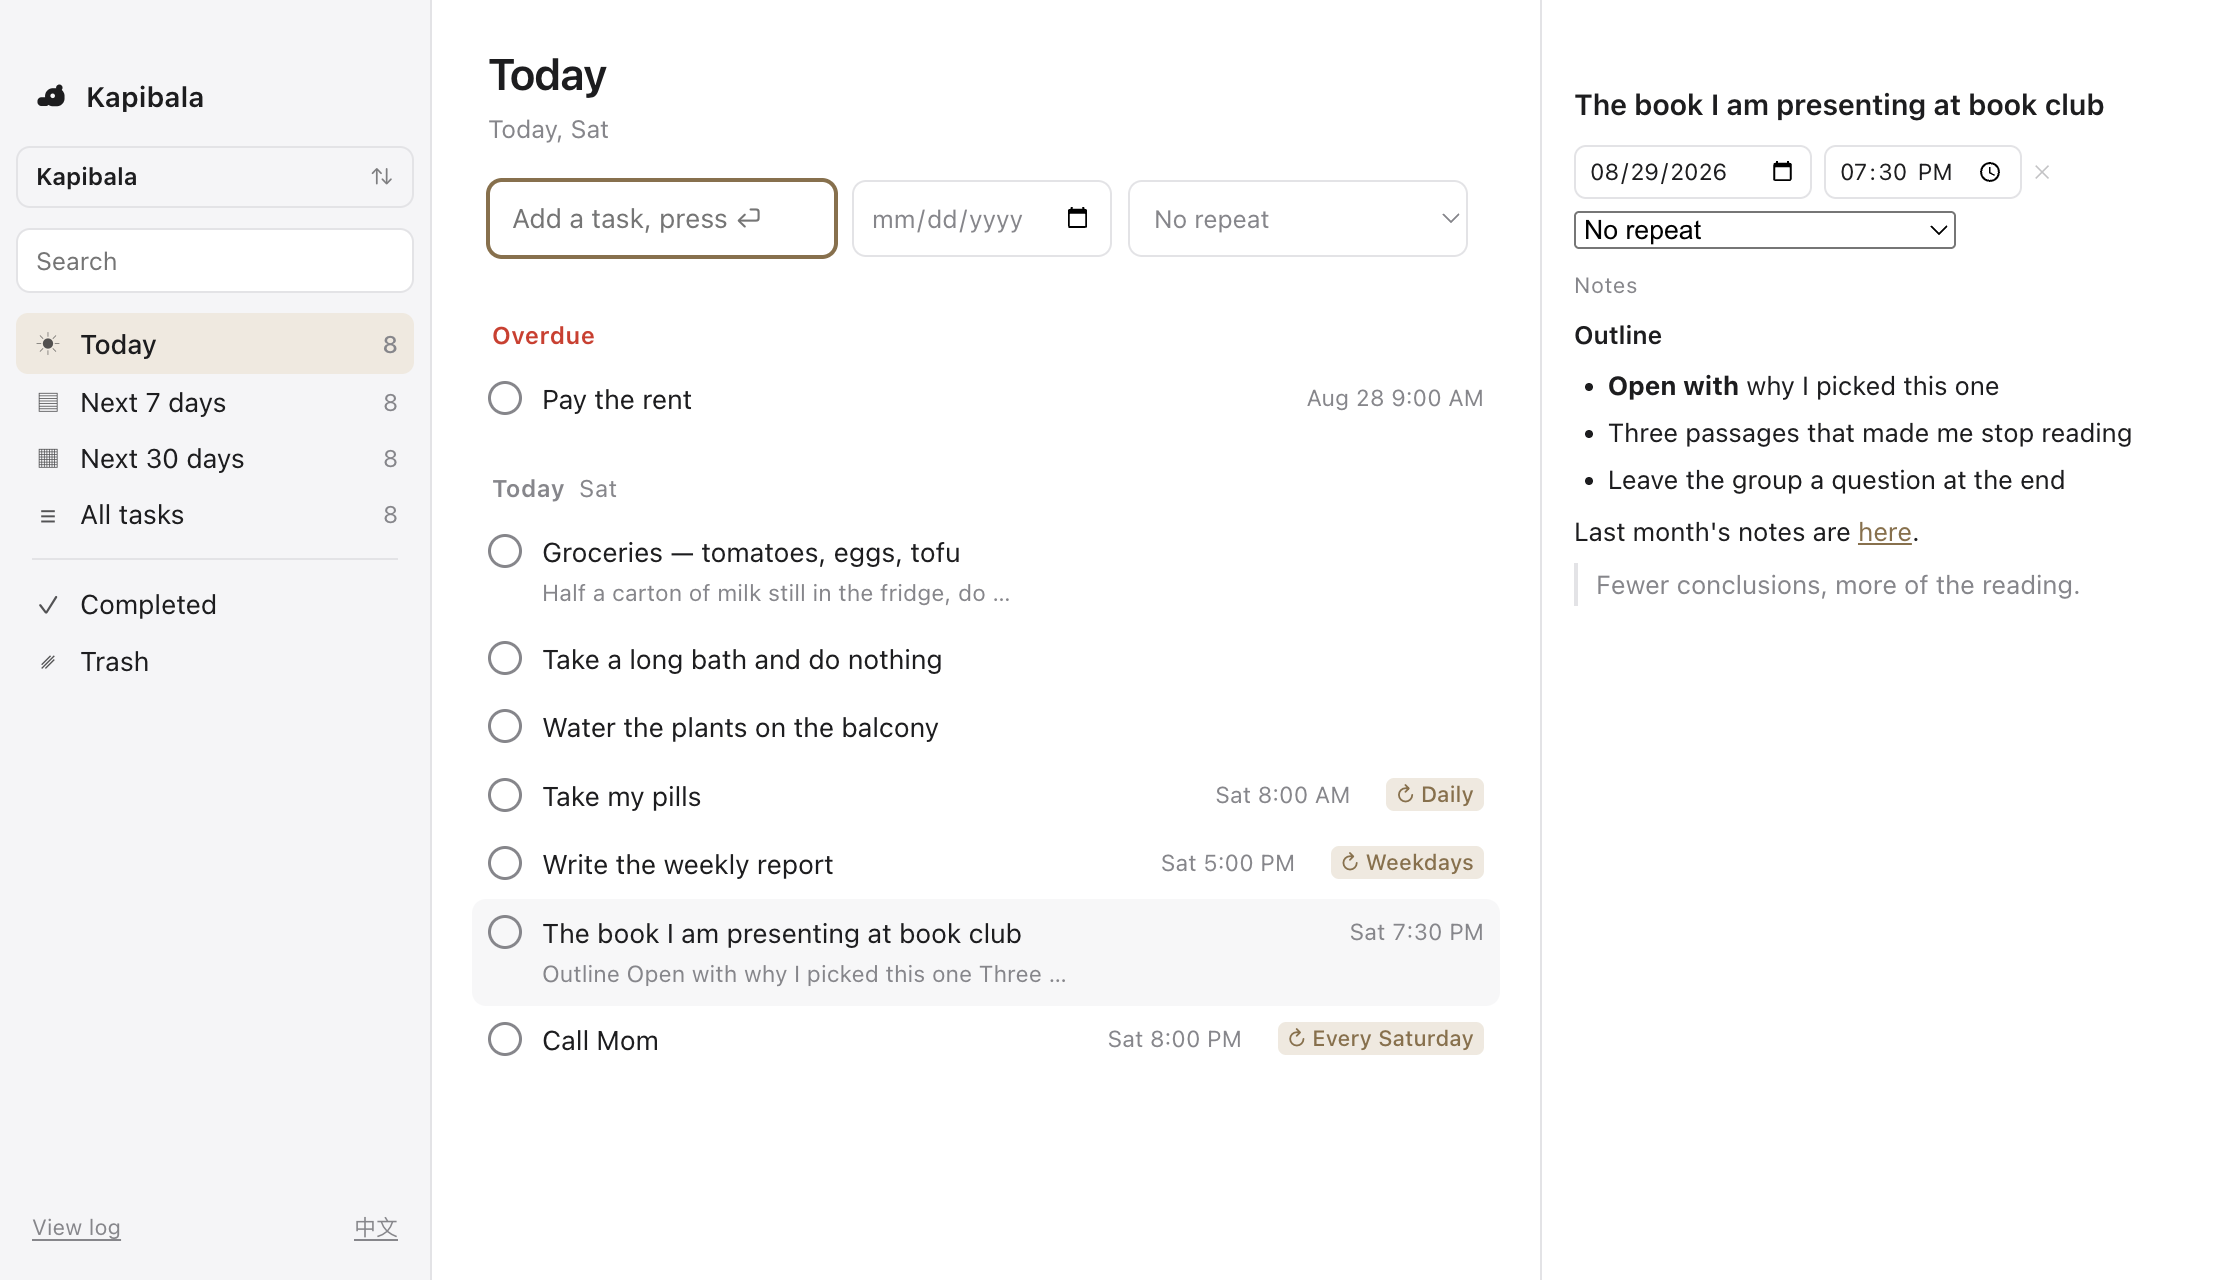
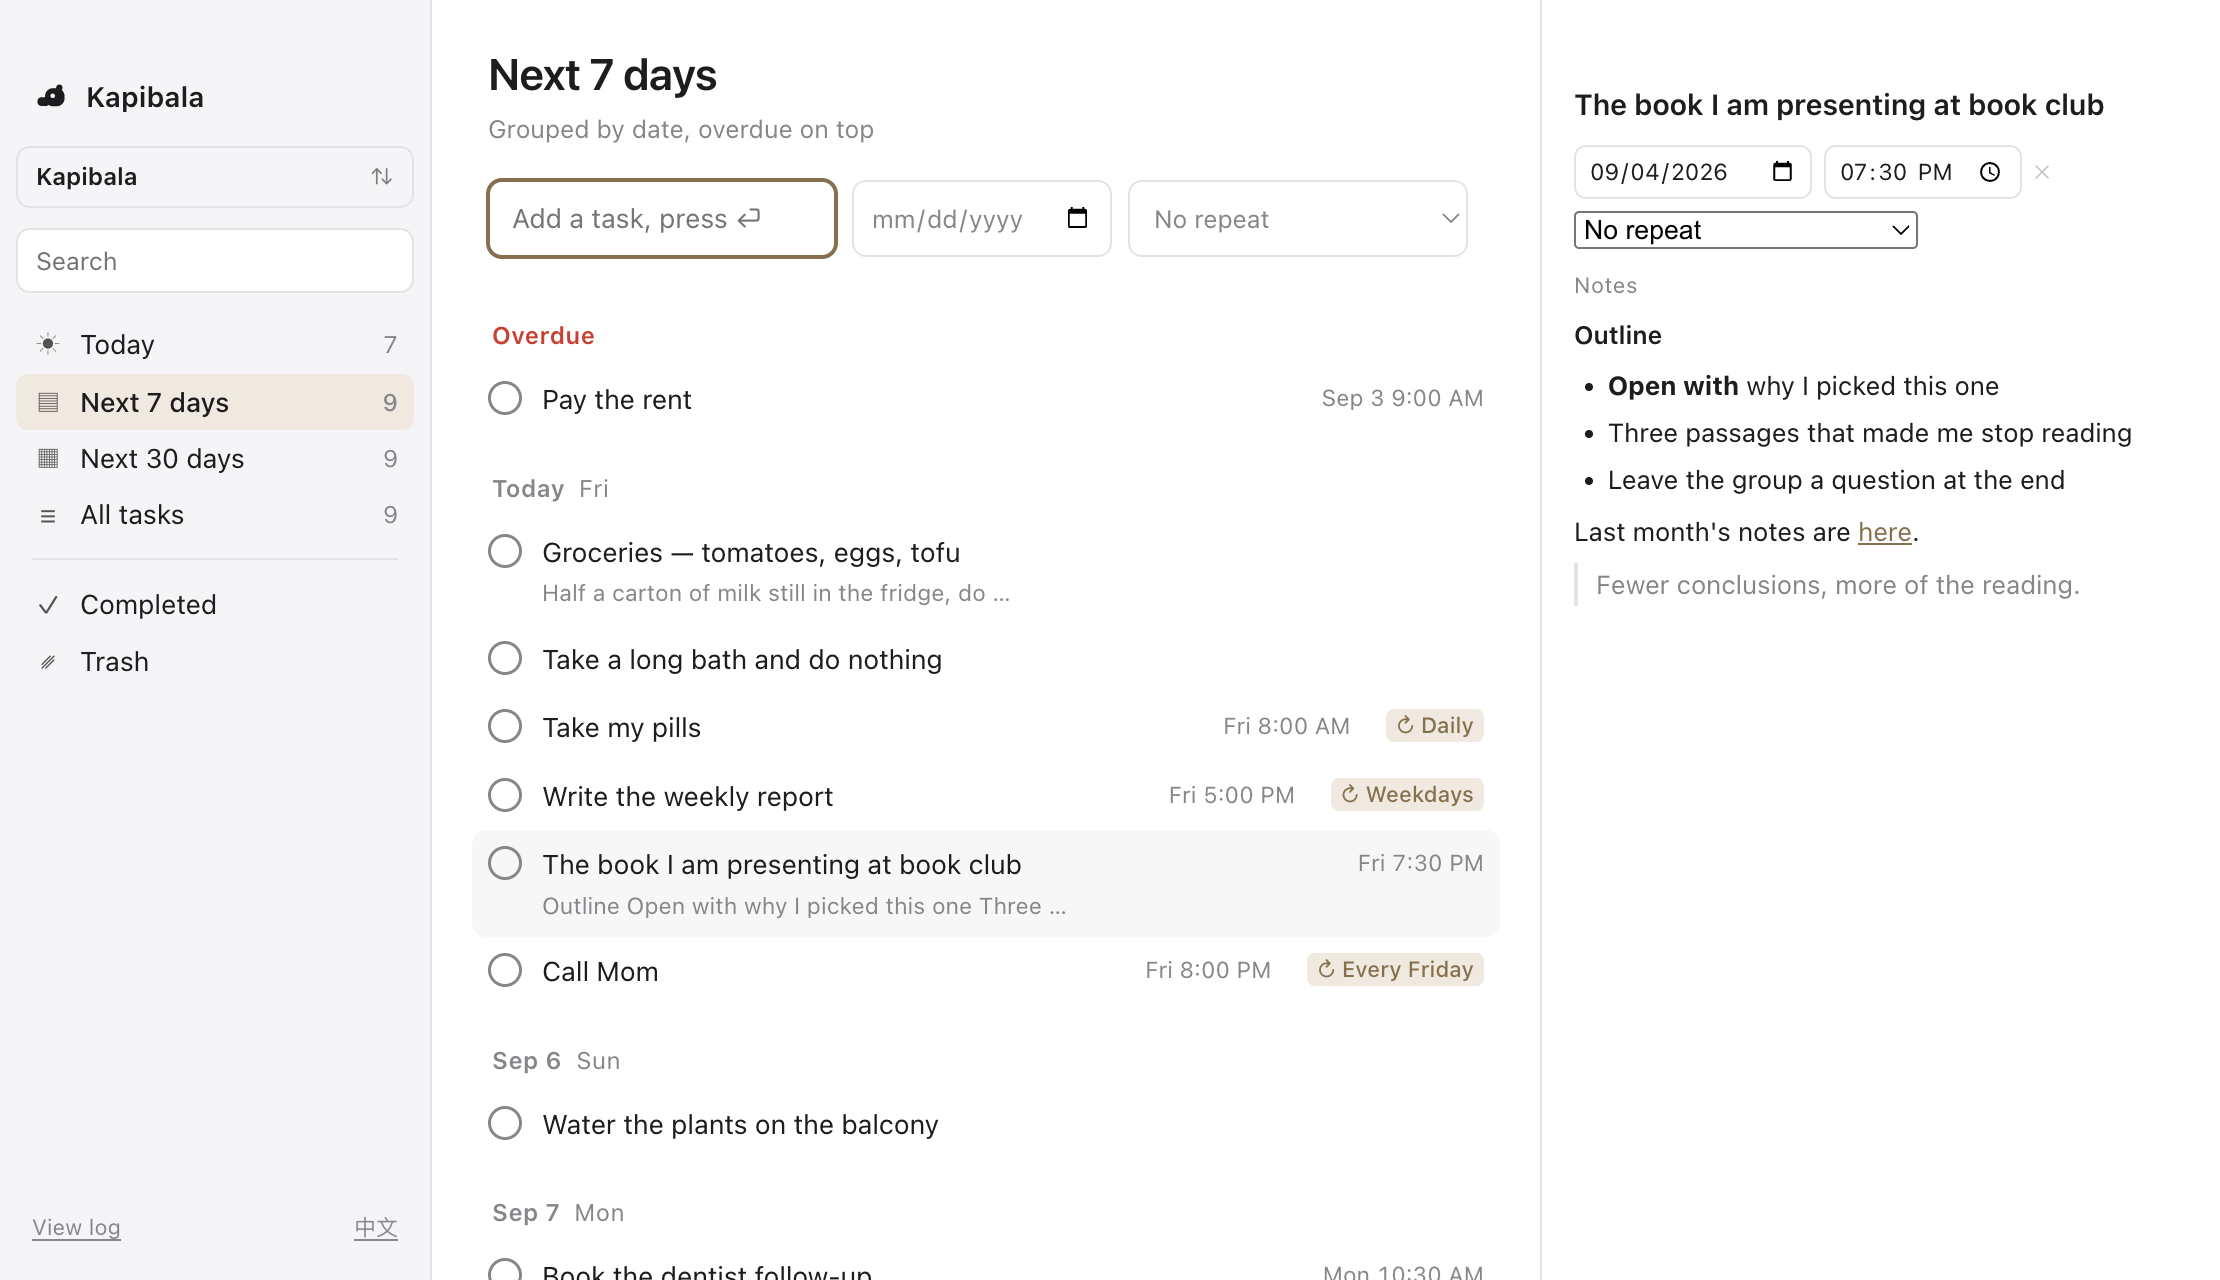
feat: 打开默认停在"最近 7 天"；点第二下不再退出改标题，版本号 1.4.1
默认视图从"今天"改成"最近 7 天"：只看今天容易漏掉马上要到的事。选完库、换完库
也都回到这个默认值（抽成 DEFAULT_VIEW，三处不会各写一个）。

改标题时再点一下同一个标题，本来会退出编辑、还顺手打开备注 —— 那一下落进了
"选中任务"的分支。现在点在正在编辑的输入框里就什么都不做，光标该挪到哪由浏览器
自己决定，一直留在编辑态，点别处才退出。

README 截图跟着换成 7 天视图（顺带让示例库多两条后几天的任务，好看出分组）。

diff --git a/apps/desktop/src/renderer/app.ts b/apps/desktop/src/renderer/app.ts
@@ -58,7 +58,9 @@ type ViewId = typeof VIEWS[number]['id']
 
 let tasks: Task[] = []
 let vault: VaultState | null = null
-let view: ViewId = 'today'
+/** 打开就停在这个视图：只看今天容易漏掉马上要到的事，一周的视野更实用 */
+const DEFAULT_VIEW: ViewId = 'next7'
+let view: ViewId = DEFAULT_VIEW
 /** 右侧详情栏选中的任务；备注是否处于编辑态 */
 let selected: string | null = null
 let editing = false
@@ -494,6 +496,9 @@ document.addEventListener('click', async (e) => {
   }
   const taskRow = target.closest<HTMLElement>('[data-task]')
   if (taskRow && !target.closest('[data-act]')) {
+    // 点在正在编辑的标题框里 = 想挪一下光标，不是要换选中项。
+    // 不挡住的话这一下会走到下面的"选中"分支，把编辑态关掉、还顺手打开备注
+    if (target.closest('[data-titleedit]')) return
     const id = taskRow.dataset['task']!
     selected = id
     remember(id)
@@ -671,7 +676,7 @@ async function switchVault(id: string) {
     vault = await kapi['vault:open'](id)
     tasks = await kapi['task:list']()
     ;($('vaultsheet') as HTMLElement).hidden = true
-    view = 'today'
+    view = DEFAULT_VIEW
     render()
   } catch (e) {
     // 失败就把原因写在那一行上，别把面板关掉
@@ -700,7 +705,7 @@ $('vaultadd').addEventListener('click', async () => {
   vault = v
   tasks = await kapi['task:list']()
   ;($('vaultsheet') as HTMLElement).hidden = true
-  view = 'today'
+  view = DEFAULT_VIEW
   render()
 })
 
